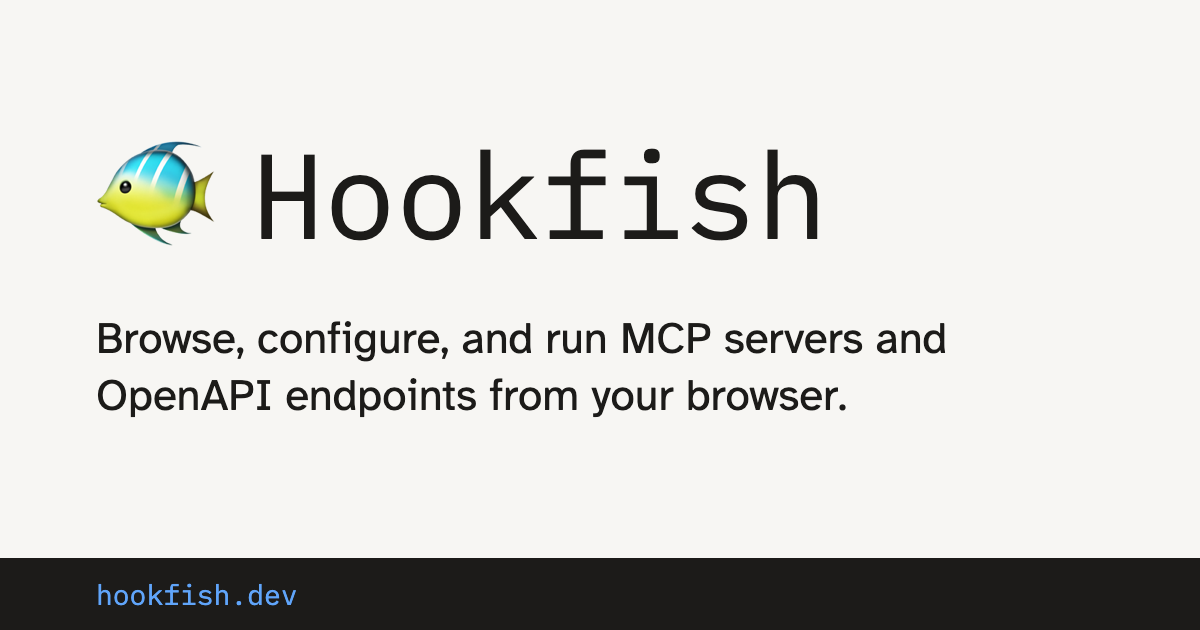
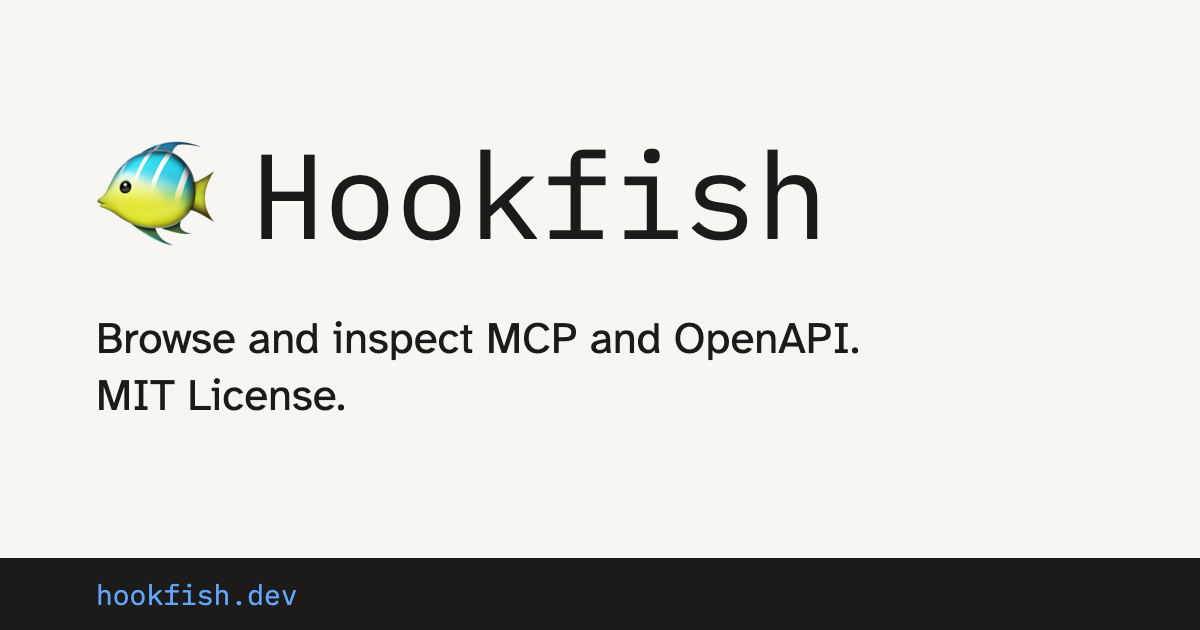
Use the shorter subtitle in share metadata and image

Changed region(s): [[0.0617, 0.6032, 0.7092, 0.6635], [0.185, 0.5127, 0.8017, 0.573]]

diff --git a/examples/cloudflare/src/routes/__root.tsx b/examples/cloudflare/src/routes/__root.tsx
@@ -15,8 +15,7 @@ import appCss from '@hookfish/app/styles.css?url'
 import { type ReactNode, useEffect, useRef } from 'react'
 
 const TITLE = 'Hookfish'
-const DESCRIPTION =
-  'Browse, configure, and run MCP servers and OpenAPI endpoints from your browser.'
+const DESCRIPTION = 'Browse and inspect MCP and OpenAPI. MIT License.'
 // Link unfurlers ignore relative image URLs, so point at the public deployment.
 const SHARE_IMAGE = 'https://hookfish.dev/og.png'
 

diff --git a/examples/docker/src/routes/__root.tsx b/examples/docker/src/routes/__root.tsx
@@ -15,8 +15,7 @@ import appCss from '@hookfish/app/styles.css?url'
 import { type ReactNode, useEffect, useRef } from 'react'
 
 const TITLE = 'Hookfish'
-const DESCRIPTION =
-  'Browse, configure, and run MCP servers and OpenAPI endpoints from your browser.'
+const DESCRIPTION = 'Browse and inspect MCP and OpenAPI. MIT License.'
 // Link unfurlers ignore relative image URLs, so point at the public deployment.
 const SHARE_IMAGE = 'https://hookfish.dev/og.png'
 

diff --git a/examples/node/src/routes/__root.tsx b/examples/node/src/routes/__root.tsx
@@ -15,8 +15,7 @@ import appCss from '@hookfish/app/styles.css?url'
 import { type ReactNode, useEffect, useRef } from 'react'
 
 const TITLE = 'Hookfish'
-const DESCRIPTION =
-  'Browse, configure, and run MCP servers and OpenAPI endpoints from your browser.'
+const DESCRIPTION = 'Browse and inspect MCP and OpenAPI. MIT License.'
 // Link unfurlers ignore relative image URLs, so point at the public deployment.
 const SHARE_IMAGE = 'https://hookfish.dev/og.png'
 

diff --git a/examples/vercel/src/routes/__root.tsx b/examples/vercel/src/routes/__root.tsx
@@ -15,8 +15,7 @@ import appCss from '@hookfish/app/styles.css?url'
 import { type ReactNode, useEffect, useRef } from 'react'
 
 const TITLE = 'Hookfish'
-const DESCRIPTION =
-  'Browse, configure, and run MCP servers and OpenAPI endpoints from your browser.'
+const DESCRIPTION = 'Browse and inspect MCP and OpenAPI. MIT License.'
 // Link unfurlers ignore relative image URLs, so point at the public deployment.
 const SHARE_IMAGE = 'https://hookfish.dev/og.png'
 
